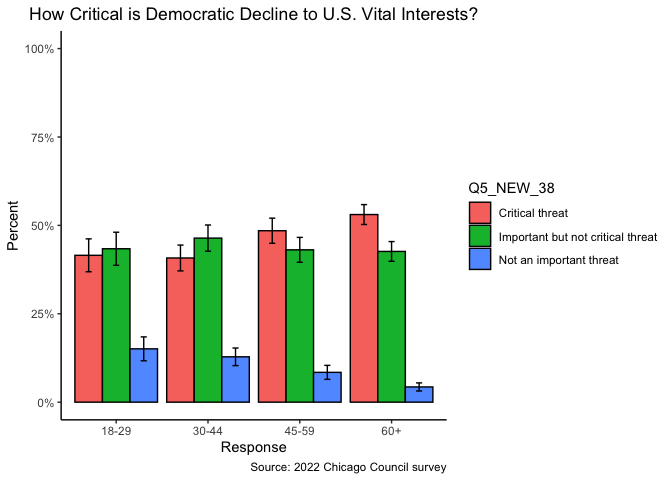
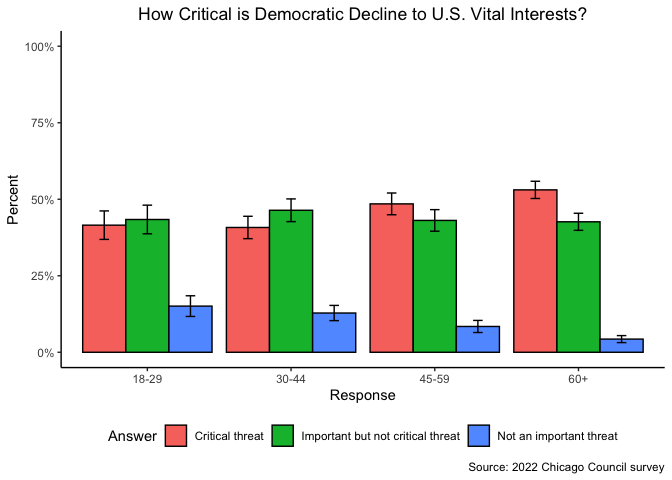
additional changes to assignment 6

diff --git a/assignments/assignment6/assignment6.md b/assignments/assignment6/assignment6.md
@@ -136,15 +136,21 @@ dta |>
          total = sum(n),
          moe = 1.96 * sqrt((prop * (1 - prop))/total)) |>
   ggplot() +
-  geom_col(aes(x = ppagect4, y = prop, fill = Q5_NEW_38), color = "black", position = "dodge") +
-  geom_errorbar(aes(x = ppagect4, ymin = prop-moe, ymax = prop+moe, group = Q5_NEW_38), position = position_dodge(.9), width = .2) +
+  geom_col(aes(x = ppagect4, y = prop, fill = Q5_NEW_38),
+           color = "black",
+           position = "dodge") +
+  geom_errorbar(aes(x = ppagect4, ymin = prop-moe, ymax = prop+moe, group = Q5_NEW_38),
+                position = position_dodge(.9),
+                width = .2) +
   scale_y_continuous(limits = c(0,1), labels = scales::percent_format()) +
   labs(x = "Response",
        y = "Percent",
+       fill = "Answer",
        title = "How Critical is Democratic Decline to U.S. Vital Interests?",
        caption = "Source: 2022 Chicago Council survey") +
   theme_classic() +
-  theme(plot.title = element_text(hjust = .5))
+  theme(plot.title = element_text(hjust = .5),
+        legend.position = "bottom")
 ```
 
 ![](assignment6_files/figure-commonmark/unnamed-chunk-8-1.png)
